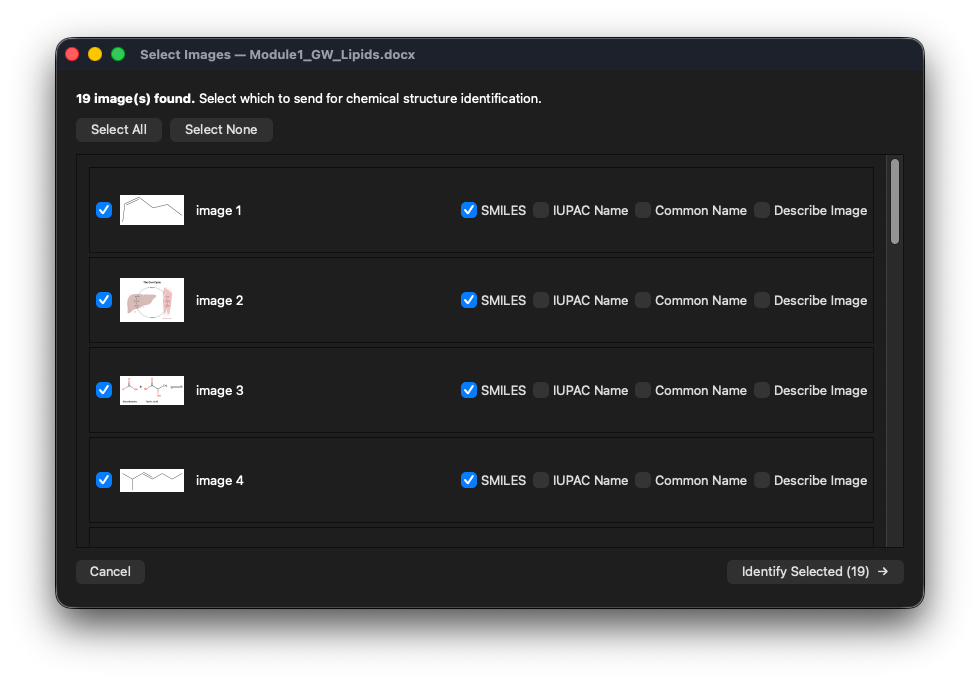
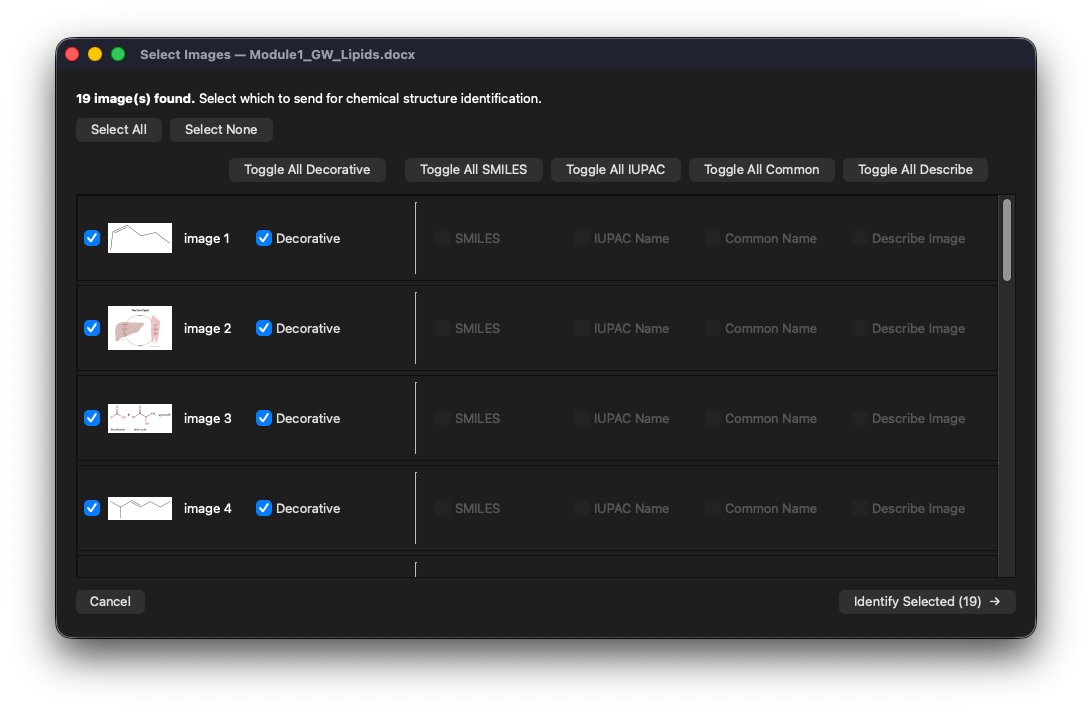
chore: Create v0.2.1 release

diff --git a/README.md b/README.md
@@ -26,9 +26,9 @@ On launch, chem4all loads the DECIMER model in the background and shows progress
 
 <img src="docs/images/loading-screen.png" alt="chem4all loading screen, showing the app name, tagline, and DECIMER model loading status" width="500">
 
-Once the model is loaded, the main screen reports the load time and lets you open a `.pptx` or `.docx` file, or open Settings:
+Once the model is loaded, the main screen reports the load time and lets you open a `.pptx` or `.docx` file, or open Settings. You can also drag and drop a file onto the window to open it:
 
-<img src="docs/images/main-screen.png" alt="chem4all main screen, showing the Open File and Settings buttons once the DECIMER model has loaded" width="500">
+<img src="docs/images/main-screen.png" alt="chem4all main screen, showing the Open File and Settings buttons once the DECIMER model has loaded, with a note that you can also drag and drop a file here to open it" width="500">
 
 If the DECIMER model hasn't been downloaded yet, the main screen instead shows a banner explaining that chemical structure recognition won't work until it's installed, with a button to download it (~600 MB):
 
@@ -46,13 +46,13 @@ The Settings dialog controls thumbnail and recognition image sizes, output mode 
 
 <img src="docs/images/settings-screen.png" alt="chem4all Settings dialog, showing thumbnail and recognition size, output mode, review page size, OpenRouter API key, DECIMER model file locations, and the Diagnostic Logging section with its enable checkbox and log folder path" width="500">
 
-After a file is opened and its images extracted, the Select Images screen lists every image found, each with a checkbox and a checkbox for each prediction type — SMILES, IUPAC name, common name, and/or a plain-language description — so more than one can be requested per image:
+After a file is opened and its images extracted, the Select Images screen lists every image found, each with a checkbox and a checkbox for each prediction type — SMILES, IUPAC name, common name, and/or a plain-language description — so more than one can be requested per image. A "Toggle All" button for each prediction type lets you turn that checkbox on or off for every image at once:
 
-<img src="docs/images/select-images-screen.png" alt="chem4all Select Images screen, showing extracted images with checkboxes and SMILES/IUPAC Name/Common Name/Describe Image checkboxes for each, with more than one prediction type selectable per image" width="500">
+<img src="docs/images/select-images-screen.png" alt="chem4all Select Images screen, showing extracted images with checkboxes and SMILES/IUPAC Name/Common Name/Describe Image checkboxes for each, with more than one prediction type selectable per image, and Toggle All buttons for each prediction type" width="500">
 
-While identification runs, the Review screen updates live with a progress banner and fills in predicted results as they finish; each image's field stays read-only until all of its requested predictions have returned. Once ready, each image's editable text box shows every requested prediction on its own line — type directly in it to override the value(s), or clear it to exclude that image. A **Restore predicted value** button appears whenever you've changed a field, letting you undo back to the original prediction(s):
+While identification runs, the Review screen updates live with a progress banner and fills in predicted results as they finish; each image's field stays read-only until all of its requested predictions have returned. Once ready, each image's editable text box shows every requested prediction on its own line, labeled with color-coded pills for each prediction type (SMILES, IUPAC, Common, Description) — type directly in the box to override the value(s), or clear it to exclude that image. A **Restore predicted value** button appears whenever you've changed a field, letting you undo back to the original prediction(s):
 
-<img src="docs/images/review-screen-editing.png" alt="chem4all Review screen showing multiple prediction results per image — SMILES, an IUPAC-style name, and a common name listed together for one image — each in one editable text box, with a Restore predicted value button shown for an edited image description field" width="500">
+<img src="docs/images/review-screen-editing.png" alt="chem4all Review screen showing multiple prediction results per image, each labeled with color-coded prediction-type pills such as SMILES, IUPAC, Common, and Description, in an editable text box, with a Restore predicted value button shown for an edited image description field" width="500">
 
 Once you accept the results, chem4all confirms where the accessible file was written and offers to open it directly:
 